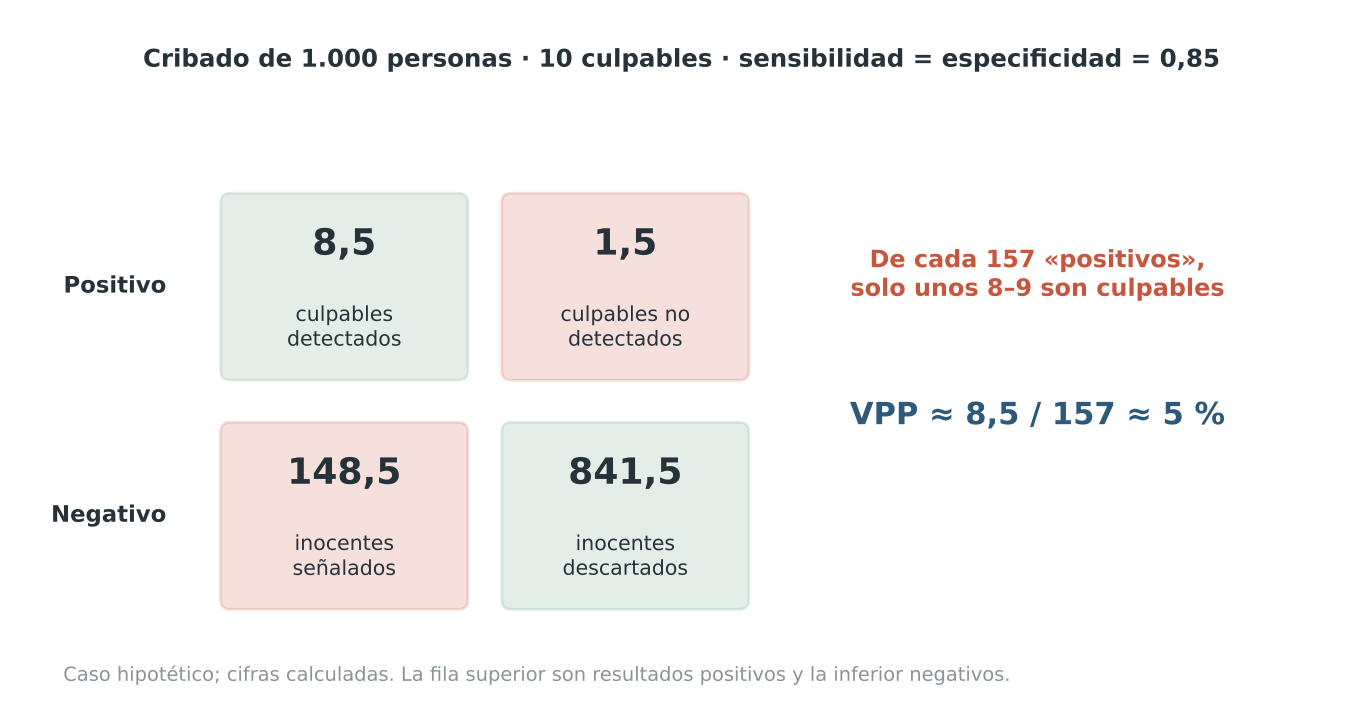
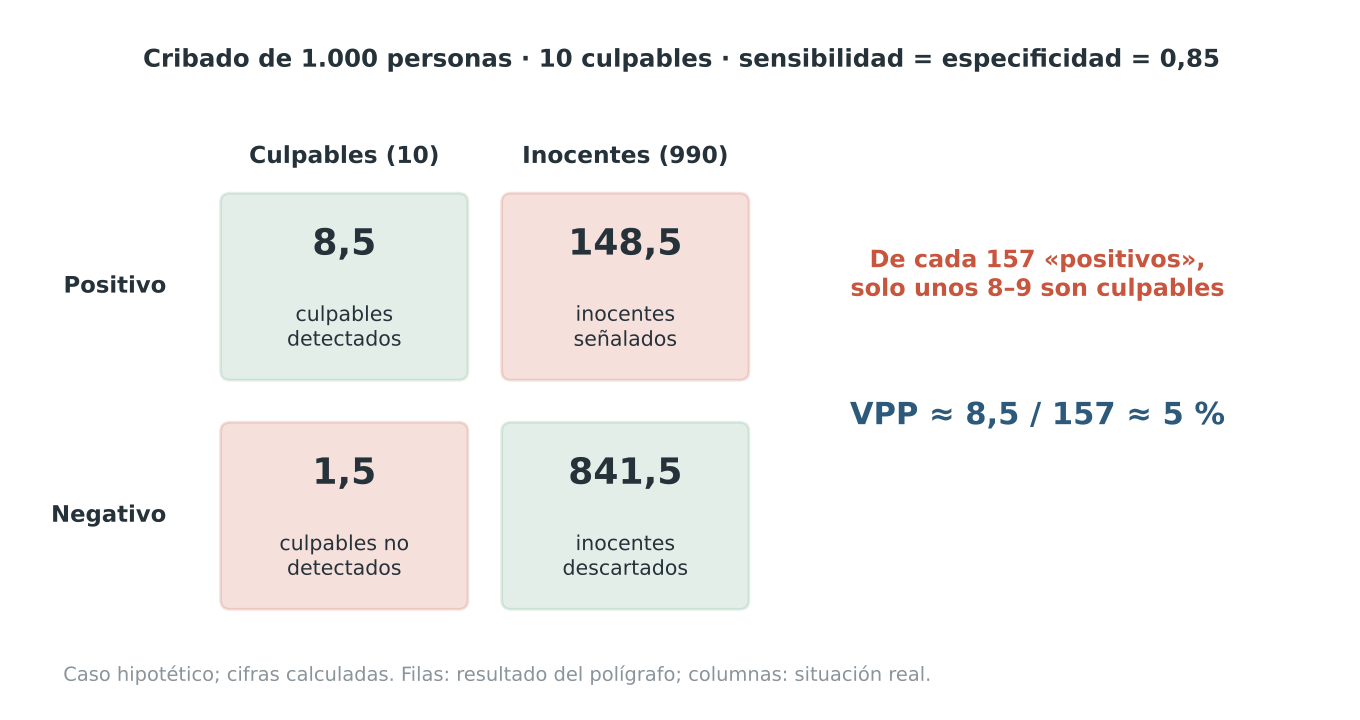
Evaluación Psicológica II: correcciones de la revisión de las unidades 1-8
Claude-Session: https://claude.ai/code/session_015DUpSTryMq1iwZPqdZ6vpN

diff --git a/temarios/evaluacion-2/tools/figuras.py b/temarios/evaluacion-2/tools/figuras.py
@@ -105,14 +105,15 @@ if want('psicofisiologia'):
 if want('poligrafo-tasa-base'):
     fig, ax = canvas(6.8, 3.6, 13.6, 7.2)
     ax.text(6.8, 6.8, 'Cribado de 1.000 personas · 10 culpables · sensibilidad = especificidad = 0,85', ha='center', fontsize=8.8, color=INK, weight='bold')
-    cells = [('8,5', 'culpables\ndetectados', G, 3.2, 4.4), ('1,5', 'culpables no\ndetectados', A, 6.2, 4.4), ('148,5', 'inocentes\nseñalados', A, 3.2, 1.9), ('841,5', 'inocentes\ndescartados', G, 6.2, 1.9)]
+    cells = [('8,5', 'culpables\ndetectados', G, 3.2, 4.4), ('148,5', 'inocentes\nseñalados', A, 6.2, 4.4), ('1,5', 'culpables no\ndetectados', A, 3.2, 1.9), ('841,5', 'inocentes\ndescartados', G, 6.2, 1.9)]
+    ax.text(3.2, 5.75, 'Culpables (10)', ha='center', fontsize=8.4, color=INK, weight='bold'); ax.text(6.2, 5.75, 'Inocentes (990)', ha='center', fontsize=8.4, color=INK, weight='bold')
     for v, t, c, x, y in cells:
         ax.add_patch(FancyBboxPatch((x - 1.3, y - 1.0), 2.6, 2.0, boxstyle='round,pad=0.02,rounding_size=0.1', fc=c, alpha=.18, ec=c))
         ax.text(x, y + .35, v, ha='center', fontsize=13, weight='bold', color=INK); ax.text(x, y - .45, t, ha='center', va='center', fontsize=7.4, color=INK)
     ax.text(1.3, 4.4, 'Positivo', ha='right', va='center', fontsize=8.2, weight='bold', color=INK); ax.text(1.3, 1.9, 'Negativo', ha='right', va='center', fontsize=8.2, weight='bold', color=INK)
     ax.text(10.6, 4.3, 'De cada 157 «positivos»,\nsolo unos 8–9 son culpables', ha='center', fontsize=8.6, color=A, weight='bold')
     ax.text(10.6, 2.9, 'VPP ≈ 8,5 / 157 ≈ 5 %', ha='center', fontsize=11, color=P, weight='bold')
-    ax.text(.2, .1, 'Caso hipotético; cifras calculadas. La fila superior son resultados positivos y la inferior negativos.', fontsize=7.0, color=MUTE)
+    ax.text(.2, .1, 'Caso hipotético; cifras calculadas. Filas: resultado del polígrafo; columnas: situación real.', fontsize=7.0, color=MUTE)
     save(fig, 'poligrafo-tasa-base.png')
 
 # U2 · diferencial semántico

diff --git a/temarios/evaluacion-2/02b-inteligencia.md b/temarios/evaluacion-2/02b-inteligencia.md
@@ -83,7 +83,7 @@ El **CIT** se obtiene con **7 subtests**, y no con los 10. Además de los primar
 - **Razonamiento Cuantitativo**: problemas con números y cantidades.
 - **Memoria de Trabajo Auditiva**: tareas de retención presentadas de forma oral.
 - **No Verbal**: reduce al mínimo las demandas de lenguaje expresivo; útil con niños con trastornos del lenguaje o que dominan poco el castellano.
-- **Capacidad General**: equivalente al ICG de la WAIS-IV, basado en subtests de comprensión verbal y razonamiento.
+- **Capacidad General**: equivalente al ICG de la WAIS-IV, basado en subtests de comprensión verbal, visoespacial y razonamiento fluido.
 - **Competencia Cognitiva**: reúne la memoria de trabajo y la velocidad de procesamiento.
 
 Comparar Capacidad General y Competencia Cognitiva es habitual: un niño puede razonar bien y rendir peor en clase porque procesa con lentitud. Ese patrón no diagnostica nada por sí solo, pero orienta la evaluación y las adaptaciones escolares.
@@ -212,7 +212,7 @@ Raven es un **test de poder**, no de velocidad: lo que importa es hasta qué dif
 
 **¿Es un test libre de cultura?** No. Raven tiene una **carga cultural reducida**, pero no nula. Resolver matrices requiere familiaridad con el formato de las tareas abstractas, con las hojas de respuesta y con la idea misma de buscar reglas en patrones geométricos, algo que la escolarización entrena. La prueba más clara es histórica: las ganancias asociadas al efecto Flynn han sido especialmente grandes en tests de tipo Raven (Flynn, 1987), y unas subidas tan rápidas, en pocas décadas, solo pueden deberse a cambios ambientales (Unidad 6). Un test que se ve tan afectado por el entorno no puede estar «libre» de él.
 
-**Los tests de dominós.** Siguen la misma lógica que Raven con otro material: series de fichas de dominó cuya última ficha está vacía. La persona debe deducir la regla que gobierna la serie (una progresión, una alternancia, una suma) y escribir los puntos que corresponden a cada mitad de la ficha. Las versiones más conocidas son el **D-48**, derivado del trabajo de Anstey, y el **D-70**. Se consideran medidas **no verbales de g** y tienen un componente de razonamiento numérico mayor que las matrices. Se aplican de forma individual o colectiva, con un tiempo límite amplio que permite a casi todos intentar todos los ítems.
+**Los tests de dominós.** Siguen la misma lógica que Raven con otro material: series de fichas de dominó cuya última ficha está vacía. La persona debe deducir la regla que gobierna la serie (una progresión, una alternancia, una suma) y escribir los puntos que corresponden a cada mitad de la ficha. Las versiones más conocidas son el **D-48**, derivado del trabajo de Anstey, y el **D-70**. Se consideran medidas **no verbales de g** y tienen un componente de razonamiento numérico mayor que las matrices. Se aplican de forma individual o colectiva, con un tiempo límite holgado, porque lo que interesa es el nivel de razonamiento y no la rapidez.
 
 | Rasgo | Raven | Dominós |
 | --- | --- | --- |
@@ -237,9 +237,9 @@ Estas tres pruebas son de **aplicación individual**, como las escalas de Wechsl
 | Procesamiento visoespacial | Subtest verbal | Subtest no verbal |
 | Memoria de trabajo | Subtest verbal | Subtest no verbal |
 
-El resultado son 10 subtests que permiten obtener un CI total, un CI verbal, un CI no verbal y puntuaciones en los cinco factores. La ventaja del diseño es que cada factor puede valorarse con y sin lenguaje, lo que ayuda con personas con dificultades de expresión oral. Las ediciones antiguas usaban una DT de 16; la SB5 adopta la métrica habitual, con media 100 y DT 15. Sus ítems muy fáciles y muy difíciles le dan buen suelo y buen techo, útiles en la discapacidad intelectual grave y en las altas capacidades.
+El resultado son 10 subtests que permiten obtener un CI total, un CI verbal, un CI no verbal y puntuaciones en los cinco factores. La ventaja del diseño es que cada factor puede valorarse con y sin lenguaje, lo que ayuda con personas con dificultades de expresión oral. Desde la revisión de 1960 hasta la cuarta edición (1986), el Stanford-Binet usaba un CI de desviación con DT 16; la SB5 adopta la métrica habitual, con media 100 y DT 15. Sus ítems muy fáciles y muy difíciles le dan buen suelo y buen techo, útiles en la discapacidad intelectual grave y en las altas capacidades.
 
-**K-BIT.** El Test Breve de Inteligencia de Kaufman (Kaufman, 1990) tiene solo **dos subtests**: **vocabulario**, que se relaciona con la inteligencia cristalizada, y **matrices**, que se relaciona con la fluida. Ofrece una puntuación verbal, una no verbal y un CI compuesto. Su brevedad lo hace útil para un cribado, para estimar el nivel intelectual en una investigación o para decidir si hace falta una evaluación más completa. Pearson tiene en curso una revisión del KBIT-2.
+**K-BIT.** El Test Breve de Inteligencia de Kaufman (Kaufman y Kaufman, 1990) tiene solo **dos subtests**: **vocabulario**, que se relaciona con la inteligencia cristalizada, y **matrices**, que se relaciona con la fluida. Ofrece una puntuación verbal, una no verbal y un CI compuesto. Su brevedad lo hace útil para un cribado, para estimar el nivel intelectual en una investigación o para decidir si hace falta una evaluación más completa. Pearson tiene en curso una revisión del KBIT-2.
 
 **RIAS.** Las Escalas de Inteligencia de Reynolds (Reynolds y Kamphaus, 2003), adaptadas por TEA, ofrecen un **índice verbal**, un **índice no verbal** y un **índice de memoria**, además de un índice global. Se aplican en relativamente poco tiempo y reducen las exigencias motoras y de velocidad, lo que permite separar mejor la capacidad de razonamiento de la rapidez manual.
 
@@ -286,7 +286,7 @@ Hay que insistir en una distinción que a menudo se confunde: **las escalas de W
 - De la **inteligencia general**, que es una capacidad amplia, común a todas las tareas cognitivas.
 - Del **rendimiento** o la **habilidad adquirida**, que describe lo que la persona ya sabe hacer. Una aptitud mira al futuro: alguien con buena aptitud espacial y sin formación técnica aprenderá antes a leer planos que otra persona con poca aptitud.
 
-La evaluación de aptitudes es heredera del modelo de **aptitudes mentales primarias** de Thurstone (Unidad 5). Su ámbito natural es la orientación académica y profesional y la selección de personal. Las **baterías de aptitudes múltiples** reúnen varias pruebas, cada una centrada en una aptitud, y tienen una ventaja metodológica: todas se baremaron con la **misma muestra normativa**, lo que permite comparar las aptitudes de una persona entre sí y obtener un **perfil**.
+La evaluación de aptitudes es heredera del modelo de **aptitudes mentales primarias** de Thurstone (Unidad 5). Su ámbito natural es la orientación académica y profesional y la selección de personal. Las **baterías de aptitudes múltiples** reúnen varias pruebas, cada una centrada en una aptitud, y tienen una ventaja metodológica: al compartir **grupo normativo**, sus puntuaciones están en la misma escala, y eso permite comparar las aptitudes de una persona entre sí y obtener un **perfil**.
 
 **DAT y DAT-5.** El **Test de Aptitudes Diferenciales** de Bennett, Seashore y Wesman es la batería de aptitudes múltiples más conocida; en España se usa la adaptación de TEA del DAT-5. Evalúa razonamiento verbal, razonamiento numérico, razonamiento abstracto, razonamiento mecánico, relaciones espaciales, ortografía y velocidad y precisión perceptiva. La suma de razonamiento verbal y numérico se ha usado tradicionalmente como indicador de **aptitud académica**, porque es la combinación que mejor predice el rendimiento escolar.
 
@@ -296,7 +296,7 @@ Figura 8.1. **Perfil de aptitudes de una estudiante de bachillerato.** Percentil
 
 Como muestra la figura 8.1, el perfil permite ver de un vistazo qué aptitudes destacan dentro de la misma persona. Una estudiante con este patrón, buena en razonamiento abstracto y verbal y menos en el mecánico, podría inclinarse por estudios en los que pese más el razonamiento con conceptos que el manejo de máquinas, pero la decisión debe integrar también sus intereses (Unidad 14), su rendimiento académico y sus circunstancias. Un perfil de aptitudes informa; no decide.
 
-**FACT.** Las **Pruebas de Clasificación de Aptitudes** de Flanagan tienen su origen en los programas de selección de pilotos y personal de aviación del ejército estadounidense durante la Segunda Guerra Mundial. Su rasgo diferencial es el método: en lugar de partir del análisis factorial, se identificaron los **elementos del trabajo** mediante el **análisis de incidentes críticos**, es decir, recogiendo conductas concretas que distinguían un desempeño eficaz de uno ineficaz en distintas ocupaciones. Cada prueba mide uno de esos elementos (inspección, memoria, coordinación, comprensión mecánica, entre otros), y las puntuaciones se combinan para estimar la adecuación a diferentes ocupaciones.
+**FACT.** Las **Pruebas de Clasificación de Aptitudes** de Flanagan derivan del trabajo de este psicólogo en la selección de tripulaciones de vuelo para las fuerzas aéreas estadounidenses en la Segunda Guerra Mundial. Su rasgo diferencial es el método: en lugar de partir del análisis factorial, se identificaron los **elementos del trabajo** mediante el **análisis de incidentes críticos**, es decir, recogiendo conductas concretas que distinguían un desempeño eficaz de uno ineficaz en distintas ocupaciones. Cada prueba mide uno de esos elementos (inspección, memoria, coordinación, comprensión mecánica, entre otros), y las puntuaciones se combinan para estimar la adecuación a diferentes ocupaciones.
 
 **PMA.** El test de **Aptitudes Mentales Primarias**, en la adaptación de TEA, traslada directamente el modelo de Thurstone a una batería breve. Evalúa cinco factores: verbal, espacial, razonamiento, numérico y fluidez verbal. Ilustra bien cómo un modelo teórico se convierte en un instrumento.
 
@@ -328,7 +328,7 @@ Como muestra la figura 8.1, el perfil permite ver de un vistazo qué aptitudes d
 | Test de poder | Test que mide el nivel de dificultad alcanzado, no la rapidez de ejecución |
 | Carga cultural | Grado en que el rendimiento en un test depende de conocimientos y experiencias culturales |
 | Stanford-Binet 5 | Escala individual de 2 a 85 años o más con 5 factores en dominios verbal y no verbal (Roid, 2003) |
-| K-BIT | Test breve individual con vocabulario y matrices, útil para el cribado (Kaufman, 1990) |
+| K-BIT | Test breve individual con vocabulario y matrices, útil para el cribado (Kaufman y Kaufman, 1990) |
 | Test colectivo | Prueba diseñada para aplicarse a muchas personas a la vez con instrucciones escritas |
 | Aptitud | Capacidad específica que predice la facilidad para aprender en un ámbito concreto |
 | Batería de aptitudes múltiples | Conjunto de pruebas de aptitudes baremadas con la misma muestra, que permite un perfil |

diff --git a/temarios/evaluacion-2/01b-tecnicas.md b/temarios/evaluacion-2/01b-tecnicas.md
@@ -41,9 +41,9 @@ Nacidas en la psicología dinámica, las proyectivas deben cumplir, como cualqui
 
 Hermann Rorschach, psiquiatra suizo, publicó en 1921 *Psychodiagnostik*, donde presentaba su prueba de interpretación de formas fortuitas. La concibió más como una tarea **perceptiva** que como una ventana al inconsciente: le interesaba cómo organiza cada persona un estímulo ambiguo. La lectura psicoanalítica llegó después, de la mano de sus continuadores.
 
-![](wm-rorschach.jpg)
+![s](wm-rorschach.jpg)
 
-Figura 3.2. **Hermann Rorschach (hacia 1910) y la lámina I de su test (1921).** Se reproduce solo la primera lámina por razones de ética profesional y seguridad del test. Fuente: Wikimedia Commons; dominio público.
+Figura 3.2. **Hermann Rorschach (hacia 1910).** Por ética profesional y para proteger la seguridad del test, este libro no reproduce ninguna de sus láminas. Fuente: Wikimedia Commons; dominio público.
 
 **El material.** El test consta de **10 láminas** con manchas de tinta simétricas, que se presentan siempre en el mismo orden:
 
@@ -53,7 +53,7 @@ Figura 3.2. **Hermann Rorschach (hacia 1910) y la lámina I de su test (1921).**
 | Bicolores | II y III | Negro y rojo |
 | Cromáticas | VIII, IX y X | Varios colores |
 
-La figura 3.2 muestra la primera lámina. Las láminas son de dominio público por antigüedad, pero la ética profesional pide no difundirlas ni comentar sus respuestas habituales: si una persona llega a la evaluación con las respuestas aprendidas, el test pierde su valor.
+Las láminas son de dominio público por antigüedad y circulan por internet, pero la ética profesional pide no difundirlas ni comentar sus respuestas habituales: si una persona llega a la evaluación con las respuestas aprendidas, el test pierde su valor.
 
 **La administración** tiene dos fases:
 
@@ -113,7 +113,7 @@ El **Test de Apercepción Temática** (TAT) fue creado en la Clínica Psicológi
 
 **El material.** Son **31 láminas**: 30 con escenas en blanco y negro, de ambigüedad variable, y **una en blanco**. Algunas se destinan a todos los evaluados y otras a grupos concretos según la **edad y el sexo**. De ellas se seleccionan habitualmente entre **10 y 20**, en función de la persona y de lo que se quiere explorar.
 
-**La administración.** Se presentan las láminas una a una y se pide que se invente una historia sobre cada una que diga qué está pasando, qué lo ha provocado, qué piensan y sienten los personajes y cómo termina. Ante la lámina en blanco, la persona imagina primero una escena y luego cuenta la historia. El evaluador registra los relatos de forma literal, junto con las pausas, los comentarios y el tiempo; puede pedir aclaraciones si falta alguna parte de la consigna, pero sin sugerir contenidos.
+**La administración.** Se presentan las láminas una a una y se pide que se invente una historia sobre cada una que diga qué ocurre en la escena, qué ha llevado hasta ella, qué pasa por la cabeza de los personajes y cómo acaba. Ante la lámina en blanco, la persona imagina primero una escena y luego cuenta la historia. El evaluador registra los relatos de forma literal, junto con las pausas, los comentarios y el tiempo; puede pedir aclaraciones si falta alguna parte de la consigna, pero sin sugerir contenidos.
 
 **El análisis clásico.** Murray interpretaba los relatos con su modelo de **necesidades y presiones**, basado en el sistema de necesidades que había descrito en 1938:
 
@@ -214,16 +214,16 @@ Las **técnicas gráficas** piden a la persona que dibuje algo a partir de una c
 
 La diferencia es importante. Goodenough no buscaba conflictos, sino un índice de desarrollo cognitivo: cuantos más detalles correctos dibuja un niño, más maduro es su concepto de la figura humana. Machover tomó el mismo material y le dio una lectura simbólica. Koppitz intentó una vía intermedia, con criterios explícitos y separando lo que es propio de la edad de lo que sería un signo emocional.
 
-**El test de la familia.** Louis Corman (1961) propuso pedir al niño que dibuje **una familia que imagine**, y no la suya. La consigna indirecta buscaba reducir la censura: el niño representaría su propia familia sin sentirse obligado a hacerlo. Tras el dibujo se pregunta quién es cada personaje, quién es el más feliz o el menos simpático y con quién le gustaría estar. El análisis atiende a quién aparece y quién falta, al orden y el tamaño de las figuras, a las distancias entre ellas y a la identificación del niño con alguno de los personajes.
+**El test de la familia.** Louis Corman (1961) propuso pedir al niño que dibuje **una familia que imagine**, en lugar de pedirle directamente la suya. La consigna indirecta buscaba reducir la censura: el niño representaría su propia familia sin sentirse obligado a hacerlo. Tras el dibujo se pregunta quién es cada personaje, quién es el más feliz o el menos simpático y con quién le gustaría estar. El análisis atiende a quién aparece y quién falta, al orden y el tamaño de las figuras, a las distancias entre ellas y a la identificación del niño con alguno de los personajes.
 
-**El HTP** (*House-Tree-Person*, casa-árbol-persona). John N. Buck (1948) pidió tres dibujos en hojas separadas, una casa, un árbol y una persona, seguidos de un interrogatorio sobre cada uno. La casa se asocia al ámbito familiar, el árbol a la vivencia de uno mismo en un nivel más profundo y la persona a la autoimagen y las relaciones. La interpretación compara los tres dibujos entre sí.
+**El HTP** (*House-Tree-Person*, casa-árbol-persona). John N. Buck (1948) pidió dibujar una casa, un árbol y una persona, cada uno en su propia hoja, seguidos de un interrogatorio sobre cada uno. La casa se asocia al ámbito familiar, el árbol a la vivencia de uno mismo en un nivel más profundo y la persona a la autoimagen y las relaciones. La interpretación compara los tres dibujos entre sí.
 
 **Dos formas de interpretar.** Conviene distinguir:
 
 - **Interpretación por signos**: cada rasgo aislado se traduce en un significado (un tamaño, un trazo, una omisión). Es la base de buena parte de los manuales clásicos.
 - **Valoración global**: se juzga el dibujo en conjunto, a menudo con escalas explícitas, como hicieron Goodenough y Koppitz.
 
-La interpretación por signos **carece de validez**: los significados atribuidos a rasgos concretos no se confirman en estudios controlados (Lilienfeld, Wood y Garb, 2000). Que los dibujos infantiles cambian con la edad sí está bien establecido, pero eso no los convierte en un test de inteligencia.
+La interpretación por signos **carece de validez**: los significados atribuidos a rasgos concretos no se confirman en estudios controlados (Lilienfeld, Wood y Garb, 2000). Que los dibujos infantiles cambian con la edad sí está bien establecido, y las escalas evolutivas (Goodenough-Harris, Koppitz) correlacionan de forma moderada con el CI, pero no sustituyen a un test de inteligencia.
 
 Un ejemplo ilustra el riesgo. Si una niña de seis años dibuja una familia diminuta en una esquina, antes de pensar en inseguridad hay que considerar su desarrollo gráfico, la prisa por volver al recreo o su costumbre en clase. Un dibujo es una conducta con muchas causas posibles.
 
@@ -235,7 +235,7 @@ Un ejemplo ilustra el riesgo. Si una niña de seis años dibuja una familia dimi
 
 **Las frases incompletas.** Se presentan comienzos de frase que la persona termina con lo primero que se le ocurre, por ejemplo:
 
-- «Lo que más me preocupa…»
+- «Los domingos por la tarde…»
 - «Cuando estoy solo…»
 - «Mi jefe…»
 
@@ -247,7 +247,7 @@ Hay varias versiones clásicas, como las de **Sacks** y **Rotter**. La de Rotter
 | Fábulas de Düss | Düss, 1940 | Completar 10 fábulas | Niños |
 | Frases incompletas | Sacks; Rotter | Terminar frases por escrito | Adolescentes y adultos |
 
-Un minicaso muestra el uso más razonable de estas técnicas. Un adolescente que apenas habla en la entrevista completa la frase «En casa…» con «nadie escucha». La respuesta no diagnostica nada, pero ofrece un tema concreto para retomar en la siguiente sesión. Así entendidas, las técnicas narrativas funcionan como **facilitadoras de la entrevista** y como fuente de hipótesis, no como tests que miden un constructo.
+Un minicaso muestra el uso más razonable de estas técnicas. Un adolescente que apenas habla en la entrevista completa la frase «Cuando hablo en voz alta…» con «nadie escucha». La respuesta no diagnostica nada, pero ofrece un tema concreto para retomar en la siguiente sesión. Así entendidas, las técnicas narrativas funcionan como **facilitadoras de la entrevista** y como fuente de hipótesis, no como tests que miden un constructo.
 
 A diferencia de un cuestionario, donde cada respuesta suma a una escala con propiedades conocidas, aquí cada respuesta se lee por su contenido. Esa riqueza cualitativa es su ventaja y la razón por la que cuesta demostrar que dos evaluadores llegarían a la misma conclusión.
 

diff --git a/temarios/evaluacion-2/01a-tecnicas.md b/temarios/evaluacion-2/01a-tecnicas.md
@@ -43,7 +43,7 @@ Hoy los cronómetros se han sustituido por ordenadores y sensores, pero la lógi
 
 Según la función que evalúan, las técnicas objetivas se agrupan en tres categorías. La frontera no siempre es nítida: casi toda tarea cognitiva exige una respuesta motora, y muchas se combinan con registros fisiológicos.
 
-**Técnicas cognitivas.** Evalúan procesos como la percepción, la atención, la memoria, el control inhibitorio o la velocidad de procesamiento. Los instrumentos clásicos son el **taquistoscopio**, que presenta estímulos visuales durante tiempos muy breves y controlados, y las tareas de **tiempo de reacción**. Hoy predominan las tareas informatizadas: versiones del Stroop, tareas *go/no-go* (responder ante un estímulo e inhibir la respuesta ante otro), tareas *n-back* de memoria de trabajo o pruebas de atención sostenida. Muchas de ellas se usan en neuropsicología (Unidad 13).
+**Técnicas cognitivas.** Se centran en la eficacia con que se percibe, se atiende, se retiene información, se frena una respuesta o se procesa con rapidez. Los instrumentos clásicos son el **taquistoscopio**, que presenta estímulos visuales durante tiempos muy breves y controlados, y las tareas de **tiempo de reacción**. Hoy predominan las tareas informatizadas: versiones del Stroop, tareas *go/no-go* (responder ante un estímulo e inhibir la respuesta ante otro), tareas *n-back* de memoria de trabajo o pruebas de atención sostenida. Muchas de ellas se usan en neuropsicología (Unidad 13).
 
 Dentro de este grupo se incluyen también las medidas de **estilos cognitivos**, formas habituales de procesar la información que no son ni mejores ni peores en sí mismas:
 
@@ -70,7 +70,7 @@ Toda evaluación psicofisiológica combina dos elementos: un **registro** fiable
 
 ![m](psicofisiologia.png)
 
-Figura 1.3. **Puntos de registro psicofisiológico.** EEG y potenciales evocados en el cuero cabelludo; pupilometría en el ojo; EMG en un músculo facial o del antebrazo; ECG y frecuencia cardiaca en el tórax; respiración mediante una banda torácica; actividad electrodérmica en los dedos. Elaboración propia.
+Figura 1.3. **Puntos de registro psicofisiológico.** EEG y potenciales evocados en el cuero cabelludo; pupilometría en el ojo; EMG en un músculo facial; ECG y frecuencia cardiaca en el tórax; respiración mediante una banda torácica; actividad electrodérmica en los dedos. Elaboración propia.
 
 Como muestra la figura 1.3, cada sensor capta una señal distinta:
 
@@ -104,7 +104,7 @@ Un ejemplo muestra la inespecificidad. Dos personas ven la imagen de una araña 
 - **Sueño**: el registro conjunto de EEG, EMG y movimientos oculares identifica sus fases.
 - **Dolor**, sobre todo cuando la persona no puede informar bien.
 
-**Ética.** Que el dato sea difícil de falsear lo vuelve también delicado. Exige **consentimiento informado** (qué se registra, para qué y con qué molestias), **uso dentro del marco validado**, **protección de datos** (la información fisiológica es un dato de salud, categoría especial en el RGPD) e **interpretación integrada** con otras fuentes. La ética general del uso de tests se estudia en *Evaluación Psicológica I*.
+**Ética.** Que el dato sea difícil de falsear lo vuelve también delicado. Exige **consentimiento informado** (qué se registra, para qué y con qué molestias), **uso dentro del marco validado**, **protección de datos** (la información fisiológica puede constituir un dato de salud, categoría especial en el RGPD) e **interpretación integrada** con otras fuentes. La ética general del uso de tests se estudia en *Evaluación Psicológica I*.
 
 **El polígrafo.** Es el ejemplo más conocido de técnica psicofisiológica y también el más malinterpretado. Como muestra la figura 1.4, registra varias respuestas autónomas a la vez.
 
@@ -117,7 +117,7 @@ El polígrafo **no detecta mentiras**: detecta **activación**. Lo que se interp
 | Procedimiento | Lógica | Problema principal |
 | --- | --- | --- |
 | Test de la pregunta de control | Compara las preguntas sobre el delito con otras de control, incómodas para casi todos | Un inocente nervioso puede activarse más ante las preguntas del delito |
-| Test de información oculta (CIT) | Comprueba si la persona reacciona ante detalles del hecho que solo conocería el autor | Requiere detalles que no se hayan difundido |
+| Test de información oculta (*Concealed Information Test*) | Comprueba si la persona reacciona ante detalles del hecho que solo conocería el autor | Requiere detalles que no se hayan difundido |
 
 El **test de información oculta** tiene más base científica, porque no depende de suponer que el culpable se pondrá más nervioso, sino de que reconoce lo que no debería conocer. El informe del National Research Council (NRC, 2003) concluyó que el polígrafo discrimina **por encima del azar** cuando se investiga un incidente concreto, pero que es **vulnerable a contramedidas** y produce **muchos falsos positivos** cuando se usa como cribado en poblaciones donde casi nadie es culpable.
 
@@ -234,11 +234,11 @@ Dos instrumentos clásicos son:
 | Instrumento | Autores | Características |
 | --- | --- | --- |
 | ACL (*Adjective Check List*) | Gough y Heilbrun (1965) | 300 adjetivos; se marcan los que describen a la persona; varias escalas de personalidad |
-| MAACL (*Multiple Affect Adjective Check List*) | Zuckerman | Lista de adjetivos de estados afectivos como ansiedad, depresión y hostilidad |
+| MAACL (*Multiple Affect Adjective Check List*) | Zuckerman y Lubin (1965) | Lista de adjetivos de estados afectivos como ansiedad, depresión y hostilidad |
 
 La **ACL** contiene 300 adjetivos de uso común (como «activo», «desconfiado», «generoso») y se puntúa en escalas que agrupan los adjetivos relacionados con distintas características de personalidad. Uno de sus problemas, común a toda lista de marcado, es que **el número de adjetivos marcados** influye en las puntuaciones: quien marca muchos tiende a puntuar más alto en casi todas las escalas. Por eso la propia ACL tiene en cuenta el total de adjetivos marcados al interpretar el perfil.
 
-Las listas de adjetivos de **estado de ánimo** se usan mucho en investigación y en psicología de la salud y del deporte, porque son breves y pueden repetirse con frecuencia para seguir los cambios del estado afectivo. Un ejemplo muy difundido es el POMS (*Profile of Mood States*), que agrupa sus adjetivos en varios estados de ánimo, como tensión, depresión, cólera, vigor, fatiga y confusión.
+Las listas de adjetivos de **estado de ánimo** se usan mucho en investigación y en psicología de la salud y del deporte, porque son breves y pueden repetirse con frecuencia para seguir los cambios del estado afectivo. En psicología del deporte se ha usado mucho el POMS (*Profile of Mood States*; McNair, Lorr y Droppleman, 1971), con escalas de tensión-ansiedad, depresión, cólera-hostilidad, vigor, fatiga y confusión.
 
 **Ventajas.** Son rápidas, fáciles de entender y aplicables a casi cualquier persona con un vocabulario básico. Se adaptan a distintos objetos de evaluación y a distintos momentos, y permiten comparar perspectivas: autodescripción y heterodescripción, yo actual y yo ideal.
 
@@ -305,7 +305,7 @@ Figura 2.2. **Rejilla de constructos personales y su representación gráfica.**
 
 Los **dilemas implicativos**, desarrollados en España por Feixas y Saúl, ayudan a entender por qué alguien no cambia aunque quiera. Un joven con fobia social quiere pasar de «tímido» a «sociable», pero para él «sociable» va unido a «superficial», y valora mucho ser «profundo». Cambiar el síntoma amenaza su identidad.
 
-**Aplicaciones y límites.** La rejilla se usa en **psicoterapia**, sobre todo constructivista, para explorar cómo construye la persona su mundo social y evaluar el cambio, y en **orientación vocacional**, con profesiones como elementos. Su aplicación es larga, exige que la persona verbalice sus constructos y dificulta la comparación entre personas, porque cada rejilla tiene constructos distintos.
+**Aplicaciones y límites.** La rejilla se usa en **psicoterapia**, sobre todo constructivista, para describir con qué dimensiones interpreta la persona sus relaciones y comprobar si cambian con el tratamiento, y en **orientación vocacional**, con profesiones como elementos. Su aplicación es larga, exige que la persona verbalice sus constructos y dificulta la comparación entre personas, porque cada rejilla tiene constructos distintos.
 
 ### Consenso y debate
 

diff --git a/temarios/evaluacion-2/02a-inteligencia.md b/temarios/evaluacion-2/02a-inteligencia.md
@@ -57,7 +57,7 @@ Cada combinación sería una capacidad distinta: 5 × 4 × 6 = 120 en la versió
 
 ![](modelos-factoriales.png)
 
-Figura 5.1. **Siete modelos factoriales de la inteligencia.** Comparación de Spearman (*g* y *s*, 1904), Thurstone (aptitudes primarias, 1938), Vernon (jerárquico, 1950), Cattell-Horn (Gf-Gc, 1963), Guilford (estructura del intelecto, 1967), Carroll (tres estratos, 1993) y el modelo CHC, con un pictograma de la estructura de cada uno. Elaboración propia.
+Figura 5.1. **Siete modelos factoriales de la inteligencia.** Comparación de Spearman (*g* y *s*, 1904), Thurstone (aptitudes primarias, 1938), Vernon (jerárquico, 1950), Guilford (estructura del intelecto, 1967), Cattell-Horn (Gf-Gc, 1963), Carroll (tres estratos, 1993) y el modelo CHC, con un pictograma de la estructura de cada uno. Elaboración propia.
 
 Como muestra la figura 5.1, se pasó de un factor único a muchos factores y, finalmente, a los modelos **jerárquicos**, hoy la mejor descripción de los datos, en los que *g* y las aptitudes específicas conviven en niveles distintos. El papel de *g* en las diferencias individuales se trata en Personalidad y Diferencias Individuales.
 
@@ -104,7 +104,7 @@ El modelo CHC es hoy el **marco de referencia** para construir e interpretar las
 
 ### 5.4 Teorías alternativas: Gardner, Sternberg e inteligencia emocional
 
-**Gardner: las inteligencias múltiples.** Gardner (1983) propuso que no hay una inteligencia, sino varias **relativamente independientes**: lingüística, lógico-matemática, espacial, musical, corporal-cinestésica, interpersonal e intrapersonal; después añadió la naturalista. Para identificarlas no usó el análisis factorial, sino criterios de otro tipo, como la existencia de lesiones cerebrales que afectan a una capacidad aislada o de personas con un talento excepcional en un solo dominio. La teoría tuvo un enorme éxito en la escuela, porque invita a valorar capacidades que los tests clásicos ignoran.
+**Gardner: las inteligencias múltiples.** Gardner (1983) propuso que no hay una inteligencia, sino varias, con bastante **autonomía** entre sí: lingüística, lógico-matemática, espacial, musical, corporal-cinestésica, interpersonal e intrapersonal; después añadió la naturalista. Para identificarlas no usó el análisis factorial, sino criterios de otro tipo, como la existencia de lesiones cerebrales que afectan a una capacidad aislada o de personas con un talento excepcional en un solo dominio. La teoría tuvo un enorme éxito en la escuela, porque invita a valorar capacidades que los tests clásicos ignoran.
 
 El problema es la **evidencia**. Gardner no desarrolló instrumentos estandarizados para medir cada inteligencia, y la independencia que postula no se confirma: Visser, Ashton y Vernon (2006) hallaron que las inteligencias de contenido más académico correlacionan entre sí y saturan en *g*, en lugar de ser independientes. La revisión de Waterhouse (2006) concluyó que la teoría carece de validación empírica. Algo parecido ocurre con los **estilos de aprendizaje**, con los que a menudo se mezcla: no hay pruebas de que enseñar a cada alumno en su estilo preferido (visual, auditivo…) mejore su rendimiento (Pashler et al., 2008). Ambos temas se amplían en Psicología Educativa y Orientación.
 
@@ -194,7 +194,7 @@ c) Su validez incremental sobre *g* está ya demostrada sin discusión
 
 ### 6.1 De Galton a Binet y Simon
 
-Antes de que existiera la psicología como ciencia, la filosofía ya había reflexionado sobre la razón y las facultades mentales. Pero el intento de **medir** las diferencias intelectuales entre personas surge en el siglo XIX, de la mano de la estadística y de la biología evolucionista.
+La idea de **medir** en qué se diferencian intelectualmente las personas es reciente: tomó forma en la segunda mitad del siglo XIX, cuando la teoría de la evolución puso el foco en la variación entre individuos y la estadística ofreció herramientas para describirla.
 
 **Francis Galton**, primo de Darwin, estaba convencido de que la capacidad intelectual se hereda, y lo defendió estudiando la frecuencia de personas eminentes en ciertas familias. En 1884 abrió en Londres un **laboratorio antropométrico** en el que, a cambio de una pequeña cantidad, los visitantes se sometían a mediciones de estatura, fuerza, agudeza visual y auditiva, discriminación sensorial y **tiempo de reacción**. Su hipótesis era que una mente capaz debía tener sentidos más finos y reacciones más rápidas. Galton hizo aportaciones metodológicas duraderas, como la idea de **correlación** y el uso de la distribución normal para describir diferencias individuales. También acuñó el término «eugenesia» y la promovió, una herencia que la psicología actual rechaza.
 
@@ -231,7 +231,7 @@ Un niño de diez años con una edad mental de doce obtiene un CI de 120. El índ
 
 Figura 6.2. **Evaluación colectiva en el ejército de EE. UU.** Soldados estadounidenses realizando un precursor del Army Alpha en noviembre de 1917. Fuente: Departamento de Guerra de EE. UU., Wikimedia Commons; dominio público.
 
-Como se ve en la figura 6.2, un solo examinador podía evaluar a decenas de personas a la vez. Tras la guerra, el formato pasó a la escuela y a la empresa. La experiencia tuvo también un lado oscuro: los resultados se usaron para apoyar argumentos racistas y políticas de restricción de la inmigración, sin tener en cuenta que muchos evaluados apenas hablaban inglés o habían ido poco a la escuela.
+La figura 6.2 muestra a varios reclutas respondiendo a la vez, cada uno con su hoja; con este formato, un solo examinador podía evaluar a decenas de personas. Tras la guerra, el formato pasó a la escuela y a la empresa. La experiencia tuvo también un lado oscuro: los resultados se usaron para apoyar argumentos racistas y políticas de restricción de la inmigración, sin tener en cuenta que muchos evaluados apenas hablaban inglés o habían ido poco a la escuela.
 
 En 1938 aparecieron las **matrices de Raven**, para medir *g* con material no verbal, y entre 1940 y 1960 llegó el **auge factorial**: baterías que ofrecían un perfil de aptitudes (apartado 5.2).
 
@@ -258,7 +258,7 @@ La figura 6.3 resume más de un siglo de historia.
 
 ### 6.3 El efecto Flynn y su inversión
 
-**El efecto Flynn.** Flynn (1984, 1987) documentó un fenómeno inesperado: a lo largo del siglo XX, las puntuaciones brutas en los tests de inteligencia **aumentaron de generación en generación** en muchos países. Como los tests se baremaban cada cierto tiempo, cada nueva versión era más exigente, y la subida pasaba desapercibida. El metaanálisis de Trahan, Stuebing, Fletcher y Hiscock (2014), con 285 estudios y 14.031 participantes, estimó una ganancia media de **2,31 puntos de CI por década** (IC 95 %: 1,99–2,64), y de 2,93 puntos con las versiones modernas de Wechsler y Stanford-Binet. Las ganancias fueron mayores en las tareas de razonamiento fluido, como las matrices, que en las de conocimiento.
+**El efecto Flynn.** Flynn (1984, 1987) documentó un fenómeno inesperado: a lo largo del siglo XX, las puntuaciones brutas en los tests de inteligencia **aumentaron de generación en generación** en muchos países. Como los tests se baremaban cada cierto tiempo, cada nueva versión era más exigente, y la subida pasaba desapercibida. El metaanálisis de Trahan, Stuebing, Fletcher y Hiscock (2014), con 285 estudios y 14.031 participantes, estimó una ganancia media de **2,31 puntos de CI por década** (IC 95 %: 1,99–2,64), y de 2,93 puntos con las versiones modernas de Wechsler y Stanford-Binet. Las ganancias fueron mayores en las tareas de razonamiento fluido, como las matrices, que en las de conocimiento (Flynn, 1987).
 
 Un aumento tan rápido no puede deberse a cambios genéticos: unas pocas décadas no bastan para modificar el acervo genético de una población. Las explicaciones propuestas son **ambientales**: mejor nutrición y salud, más años de escolarización, familias más pequeñas y un entorno cotidiano más exigente en pensamiento abstracto. Su peso relativo se sigue discutiendo. Tampoco significa necesariamente que las generaciones nuevas sean «más listas» en todo: lo que ha aumentado es el rendimiento en lo que miden los tests.
 

diff --git a/temarios/evaluacion-2/07-apendices.md b/temarios/evaluacion-2/07-apendices.md
@@ -76,6 +76,7 @@
 
 - Alonso, J., Prieto, L. y Antó, J. M. (1995). La versión española del SF-36 Health Survey (Cuestionario de Salud SF-36): un instrumento para la medida de los resultados clínicos. *Medicina Clínica, 104*(20), 771–776.
 - Bratsberg, B. y Rogeberg, O. (2018). Flynn effect and its reversal are both environmentally caused. *Proceedings of the National Academy of Sciences, 115*(26), 6674–6678.
+- Flynn, J. R. (1987). Massive IQ gains in 14 nations: What IQ tests really measure. *Psychological Bulletin, 101*(2), 171–191.
 - Lilienfeld, S. O., Wood, J. M. y Garb, H. N. (2000). The scientific status of projective techniques. *Psychological Science in the Public Interest, 1*(2), 27–66.
 - Mihura, J. L., Meyer, G. J., Dumitrascu, N. y Bombel, G. (2013). The validity of individual Rorschach variables: Systematic reviews and meta-analyses of the Comprehensive System. *Psychological Bulletin, 139*(3), 548–605.
 - Muñiz, J., Hernández, A. y Fernández-Hermida, J. R. (2020). Utilización de los tests en España: el punto de vista de los psicólogos. *Papeles del Psicólogo, 41*(1), 1–15.
@@ -96,14 +97,13 @@
 
 Las figuras con gráficos, esquemas y tablas son de **elaboración propia** de SAIMAP. Las que llevan la indicación «Esquema ilustrativo, no datos» representan la forma general de un modelo o de un resultado y no datos reales. Los perfiles, ítems y puntuaciones de ejemplo están marcados como inventados. No se reproduce ningún ítem ni material protegido de los tests. Las cifras reales proceden de los estudios citados en el pie de cada figura.
 
-Las fotografías y grabados históricos proceden de **Wikimedia Commons**. SAIMAP ha reunido algunos de ellos en láminas (figuras de las unidades 3, 6 y 12) y los ha redimensionado; la fotografía de Phineas Gage se ha recortado. No se ha alterado su contenido. La imagen con licencia CC BY-SA se reutiliza bajo la misma licencia.
+Las fotografías y grabados históricos proceden de **Wikimedia Commons**. SAIMAP ha reunido algunos de ellos en láminas (figuras de las unidades 6 y 12) y los ha redimensionado; la fotografía de Phineas Gage se ha recortado. No se ha alterado su contenido. La imagen con licencia CC BY-SA se reutiliza bajo la misma licencia.
 
 | Figura | Archivo original (Wikimedia Commons) | Autor | Licencia |
 | --- | --- | --- | --- |
 | U1 · Cronoscopio de Hipp | [Hipp Chronoscope, c. 1890, view 1 - Museum of Science and Industry (Chicago) - DSC06506.JPG](https://commons.wikimedia.org/wiki/File:Hipp_Chronoscope,_c._1890,_view_1_-_Museum_of_Science_and_Industry_(Chicago)_-_DSC06506.JPG) | Daderot | [CC0 1.0](https://creativecommons.org/publicdomain/zero/1.0/deed.es) |
 | U1 · Polígrafo Keeler | [November 2016- Polygraph Machine - Jack Ruby.jpg](https://commons.wikimedia.org/wiki/File:November_2016-_Polygraph_Machine_-_Jack_Ruby.jpg) | Federal Bureau of Investigation | Dominio público |
 | U3 · Hermann Rorschach | [Hermann Rorschach c.1910.JPG](https://commons.wikimedia.org/wiki/File:Hermann_Rorschach_c.1910.JPG) | Anónimo (hacia 1910) | Dominio público |
-| U3 · Lámina I del Rorschach | [Rorschach blot 01.jpg](https://commons.wikimedia.org/wiki/File:Rorschach_blot_01.jpg) | Hermann Rorschach (1921) | Dominio público |
 | U6 · Galton | [Sir Francis Galton, circa 1890.jpg](https://commons.wikimedia.org/wiki/File:Sir_Francis_Galton,_circa_1890.jpg) | Graham's Art Studios | Dominio público |
 | U6 · Binet | [Alfred Binet.jpg](https://commons.wikimedia.org/wiki/File:Alfred_Binet.jpg) | Fotógrafo no identificado (siglo XIX) | Dominio público |
 | U6 · Stern | [WLStern.jpg](https://commons.wikimedia.org/wiki/File:WLStern.jpg) | Autor desconocido (principios del siglo XX) | Dominio público |

diff --git a/temarios/evaluacion-2/tools/creditos-wikimedia.md b/temarios/evaluacion-2/tools/creditos-wikimedia.md
@@ -1,13 +1,12 @@
 # Créditos Wikimedia · evaluacion-2
 
-Las fotografías y grabados históricos proceden de **Wikimedia Commons**. SAIMAP ha reunido algunos de ellos en láminas (figuras de las unidades 3, 6 y 12) y los ha redimensionado; la fotografía de Phineas Gage se ha recortado. No se ha alterado su contenido. La imagen con licencia CC BY-SA se reutiliza bajo la misma licencia.
+Las fotografías y grabados históricos proceden de **Wikimedia Commons**. SAIMAP ha reunido algunos de ellos en láminas (figuras de las unidades 6 y 12) y los ha redimensionado; la fotografía de Phineas Gage se ha recortado. No se ha alterado su contenido. La imagen con licencia CC BY-SA se reutiliza bajo la misma licencia.
 
 | Figura | Archivo original (Wikimedia Commons) | Autor | Licencia |
 | --- | --- | --- | --- |
 | U1 · Cronoscopio de Hipp | [Hipp Chronoscope, c. 1890, view 1 - Museum of Science and Industry (Chicago) - DSC06506.JPG](https://commons.wikimedia.org/wiki/File:Hipp_Chronoscope,_c._1890,_view_1_-_Museum_of_Science_and_Industry_(Chicago)_-_DSC06506.JPG) | Daderot | [CC0 1.0](https://creativecommons.org/publicdomain/zero/1.0/deed.es) |
 | U1 · Polígrafo Keeler | [November 2016- Polygraph Machine - Jack Ruby.jpg](https://commons.wikimedia.org/wiki/File:November_2016-_Polygraph_Machine_-_Jack_Ruby.jpg) | Federal Bureau of Investigation | Dominio público |
 | U3 · Hermann Rorschach | [Hermann Rorschach c.1910.JPG](https://commons.wikimedia.org/wiki/File:Hermann_Rorschach_c.1910.JPG) | Anónimo (hacia 1910) | Dominio público |
-| U3 · Lámina I del Rorschach | [Rorschach blot 01.jpg](https://commons.wikimedia.org/wiki/File:Rorschach_blot_01.jpg) | Hermann Rorschach (1921) | Dominio público |
 | U6 · Galton | [Sir Francis Galton, circa 1890.jpg](https://commons.wikimedia.org/wiki/File:Sir_Francis_Galton,_circa_1890.jpg) | Graham's Art Studios | Dominio público |
 | U6 · Binet | [Alfred Binet.jpg](https://commons.wikimedia.org/wiki/File:Alfred_Binet.jpg) | Fotógrafo no identificado (siglo XIX) | Dominio público |
 | U6 · Stern | [WLStern.jpg](https://commons.wikimedia.org/wiki/File:WLStern.jpg) | Autor desconocido (principios del siglo XX) | Dominio público |
